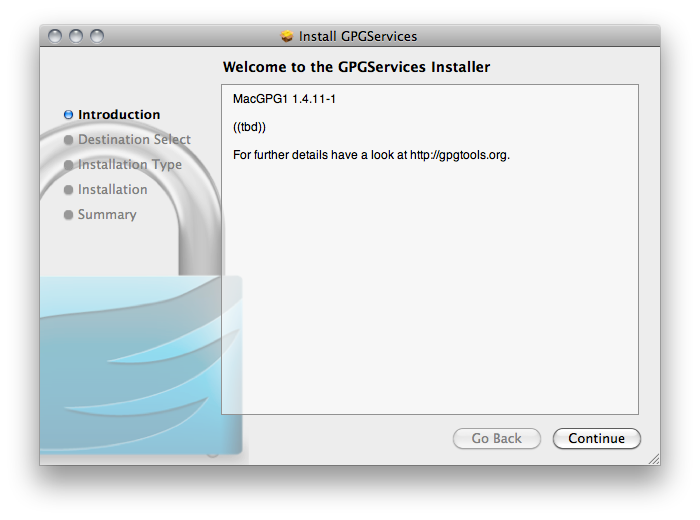
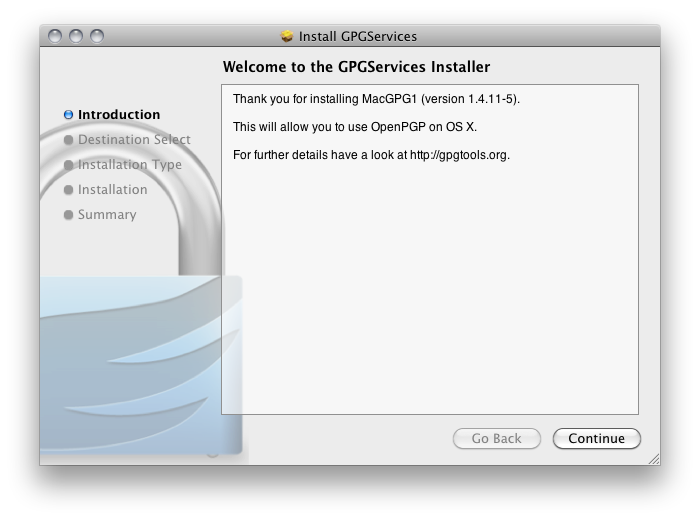
new beta and screenshots

diff --git a/macgpg1/index.html b/macgpg1/index.html
@@ -60,7 +60,7 @@
         <hr>
     <p>
         (<a href="https://github.com/downloads/GPGTools/MacGPG1/MacGPG1-1.4.11-1.dmg.sig" class='piwik_download' target='_blank' title='the gpg file signature'>sig</a> |        <a href="#releasenotes" title='the SHA-1 file checksum'>sha</a> |        <a href="https://github.com/GPGTools/MacGPG1/downloads" title='other files and versions' target='_blank'>others</a> |        <a href="https://github.com/GPGTools/MacGPG1" title='the sources of this project' target='_blank'>src</a> |
-        <a href="https://github.com/GPGTools/MacGPG1/raw/master/LICENSE.txt" title='the license of this project' target='_blank'>license</a> | <a href="https://github.com/downloads/GPGTools/MacGPG1/MacGPG1-1.4.11-3.dmg" title="not released test version (use at your own risk)" target='_blank'>beta</a>  |
+        <a href="https://github.com/GPGTools/MacGPG1/raw/master/LICENSE.txt" title='the license of this project' target='_blank'>license</a> | <a href="https://github.com/downloads/GPGTools/MacGPG1/MacGPG1-1.4.11-5.dmg" title="not released test version (use at your own risk)" target='_blank'>beta</a>  |
                 <a href="macgpg1_appcast.xml" title='a feed with the latest versions' target='_blank'>feed</a>
         )
     </p>
@@ -76,8 +76,7 @@
             <p>Please have a look at the <a href="http://gpgtools.lighthouseapp.com/projects/70639/tickets?q=state%3Aopen&amp;filter=" target='_blank'>list of open issues</a> and ask <a href="mailto:gpgtools-users@lists.gpgtools.org">the mailing list</a> for further support.</p>
                         <p>Often reported limitations:</p>
             <ul id="limitations" class="sub">
-                               <li><a href="http://gpgtools.lighthouseapp.com/projects/70639/tickets/">Issue #</a>: Very first alpha build!.</li>
-                            </ul>
+                           </ul>
             
                         <h3>Main Features</h3>
             <ul id="features" class="sub">

diff --git a/macgpg1/config.php b/macgpg1/config.php
@@ -1,18 +1,19 @@
 <?php /*compileIgnore*/
 
-$release['1.4.11-2'] = mktime(0, 1, 8, 03, 18, 2011);
+$version="1.4.11-1";
+$release['1.4.11-5'] = mktime(0, 1, 8, 03, 24, 2011);
 $release['1.4.11-1'] = mktime(0, 13, 8, 02, 24, 2011);
-$current = $release['1.4.11-1'];
+$current = $release[$version];
 
 $theSite->assign('title',    'MacGPG1');
 $theSite->assign('name', 'macgpg1');
 $theSite->assign('img_logo', 'images/logo-128px.png');
 $theSite->assign('url_base', 'GPGTools/MacGPG1');
-$theSite->assign('url_dl',   'MacGPG1-1.4.11-1.dmg');
-$theSite->assign('url_sig',  'MacGPG1-1.4.11-1.dmg.sig');
-$theSite->assign('url_beta', 'MacGPG1-1.4.11-3.dmg');
+$theSite->assign('url_dl',   "MacGPG1-$version.dmg");
+$theSite->assign('url_sig',  "MacGPG1-$version.dmg.sig");
+$theSite->assign('url_beta', 'MacGPG1-1.4.11-5.dmg');
 $theSite->assign('url_wiki', '');
-$theSite->assign('version',  '1.4.11-1');
+$theSite->assign('version',  "$version");
 $theSite->assign('date',     date("d. F Y", $current));
 $theSite->assign('month',  date("m", $current));
 $theSite->assign('day',  date("d", $current));
@@ -31,7 +32,7 @@ $theSite->assign('heise', "14689");
 $theSite->assign('cnet', "3000-2092_4-75374714");
 
 $limitations = array(
-'' => 'Very first alpha build!',
+//'' => 'Very first alpha build!',
 );
 $theSite->assign('limitations', $limitations);
 
